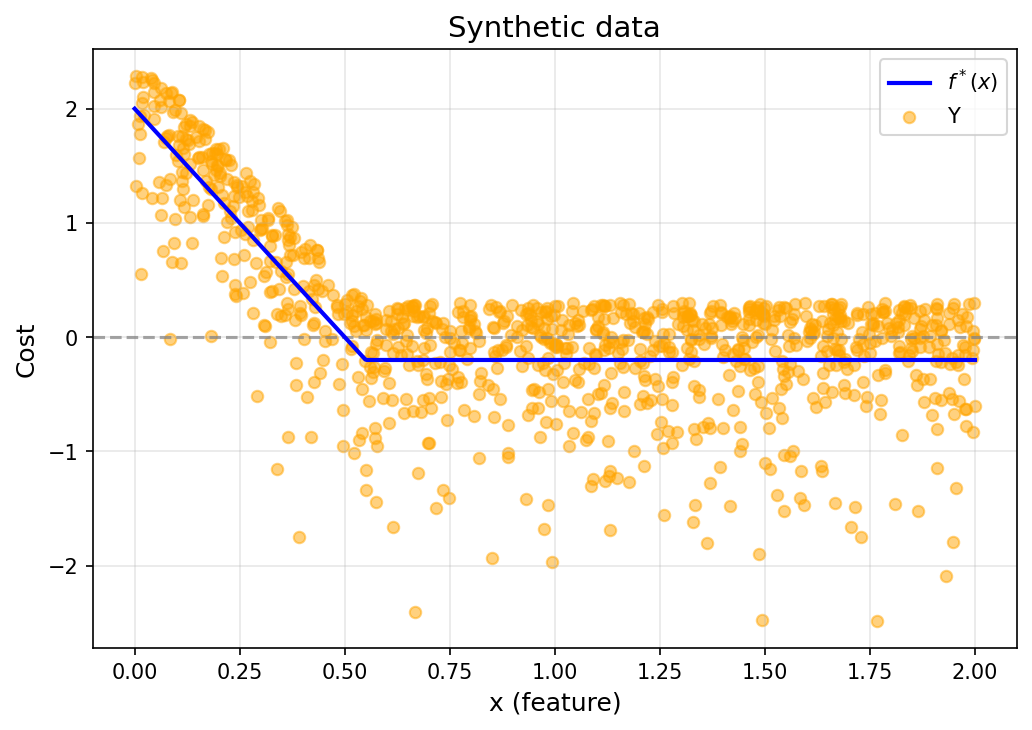
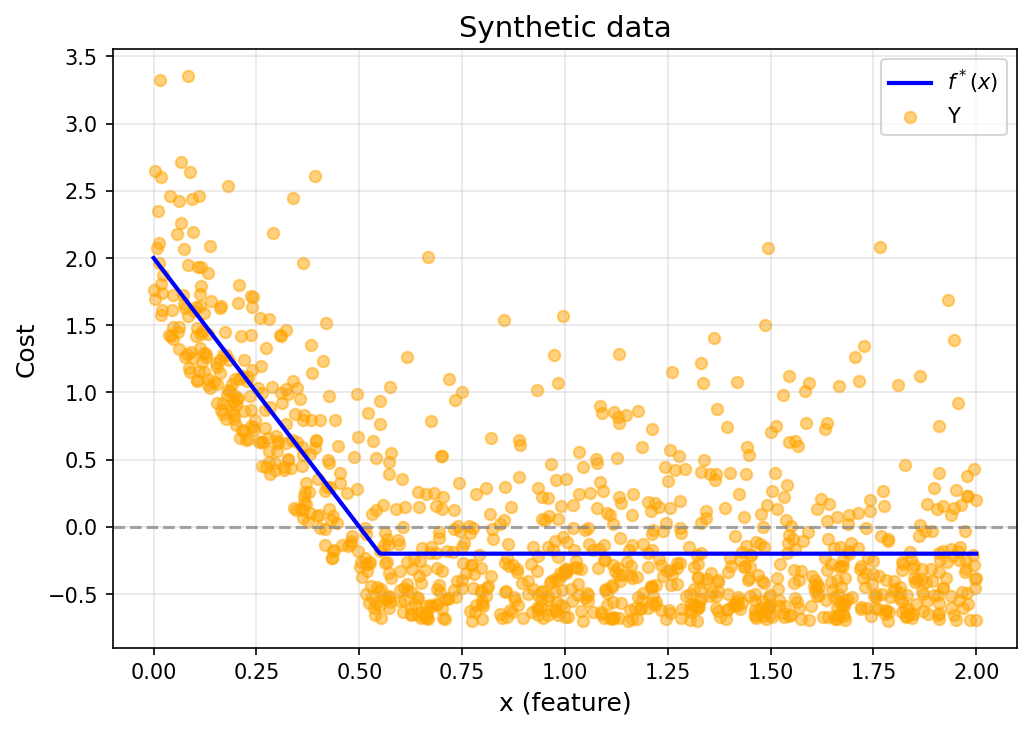
Correct fig_synthetic_data noise sign to the benchmark's DGP (tail up)
The originally submitted manuscript figure (and its appendix equation) used the
mirrored noise Y = f* + 0.5 - zeta, which matches Gupta & Huang's released code
but not their paper text nor this benchmark: PGMisspec.py trains on
Y = f* + zeta - 0.5 (verified against the sweep's pickled data, residual skew
+3.0 with hard floor at -0.5, and the 0.39 regret ceiling). The figure script
now draws the benchmark's convention with the same seed-999 recipe, so the new
points are the exact per-point mirror of the published figure about f*.
REPRODUCING.md notes the correction.

diff --git a/experiments/fig_synthetic_data.py b/experiments/fig_synthetic_data.py
@@ -7,13 +7,14 @@ paper appendix "PG Misspecified Synthetic Task":
 
     x  ~ Uniform(0, 2)
     f*(x) = -4x + 2   for x in [0, 0.55],   -0.2  for x in (0.55, 2]
-    Y  = f*(x) + 0.5 - zeta,   zeta ~ Exponential(mean 0.5)
+    Y  = f*(x) + zeta - 0.5,   zeta ~ Exponential(mean 0.5)
 
-The DGP mirrors openpto/problems/PGMisspec.py (same f*, same mean-zero
-exponential noise magnitude), except for the noise sign: the paper equation
-above uses eps = 0.5 - zeta (Y bounded above by f*(x)+0.5, unbounded lower
-tail), while PGMisspec draws eps = zeta - 0.5 (the reflection). This script
-follows the paper equation so the figure matches the published one.
+This is exactly the DGP in openpto/problems/PGMisspec.py — the benchmark
+that produced every pg_misspec number in the paper — and the corrected
+manuscript equation: eps = zeta - 0.5 gives a hard floor at f*(x) - 0.5
+with sparse upward spikes (unbounded upper tail). The RNG recipe (seed,
+draw order) is unchanged from the originally submitted figure, so these
+samples are the exact mirror of the previously published points about f*.
 
 Generates:
     results/figures/synthetic_data.pdf
@@ -59,7 +60,7 @@ def f_star(x):
 
 
 def gen_data(n, seed):
-    """Sample (x, Y) from the pg_misspec DGP with the paper's noise sign.
+    """Sample (x, Y) from the pg_misspec DGP (benchmark noise sign).
 
     The Gaussian draw has weight 0 at ALPHA=1 but must stay in this order
     (uniform, normal, exponential) to reproduce the published figure's
@@ -68,7 +69,7 @@ def gen_data(n, seed):
     np.random.seed(seed)
     x = np.random.uniform(0.0, 2.0, n)
     norm_noise = np.random.normal(0.0, SD, n)
-    exp_noise = -(np.random.exponential(SD, n) - SD)  # 0.5 - zeta, mean zero
+    exp_noise = np.random.exponential(SD, n) - SD  # zeta - 0.5, mean zero
     noise = exp_noise * ALPHA**0.5 + norm_noise * (1.0 - ALPHA) ** 0.5
     return x, f_star(x) + noise
 

diff --git a/REPRODUCING.md b/REPRODUCING.md
@@ -23,7 +23,7 @@ Every figure script reads only `bench_p2_best_val.json`.
 | `fig_bench_bump_recommended_main_bootstrap_cropped.pdf` | `python experiments/fig_bench_bump_recommended.py` | Emits `recommended_{main,spatial}_{plain,bootstrap}`; `_cropped` = same crop-box post-processing, committed copy at `results/figures/`. |
 | `fig_bench_bump_recommended_spatial_bootstrap.pdf` | `python experiments/fig_bench_bump_recommended.py` | Same script as above. |
 | `fig_bench_bump_bootstrap_portfolio.pdf` | `python experiments/fig_bench_bump_bootstrap.py` | The portfolio panel of the per-group outputs (appendix). |
-| `synthetic_data.pdf` | `python experiments/fig_synthetic_data.py` | pg_misspec data-generating-process illustration. |
+| `synthetic_data.pdf` | `python experiments/fig_synthetic_data.py` | pg_misspec data-generating-process illustration. Uses the benchmark's noise sign (Y = f* + zeta - 0.5, per `openpto/problems/PGMisspec.py`), correcting the sign in the originally submitted manuscript figure. |
 
 ### Tables
 
